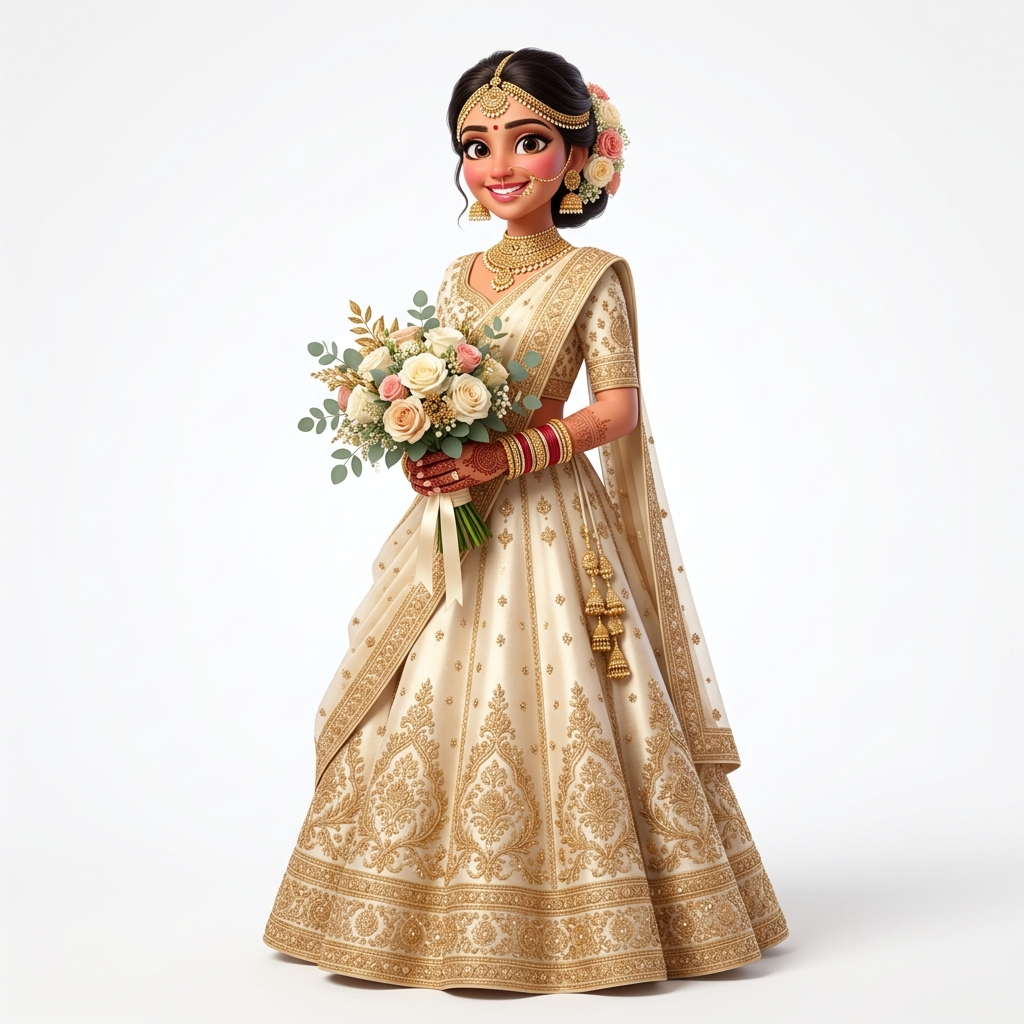
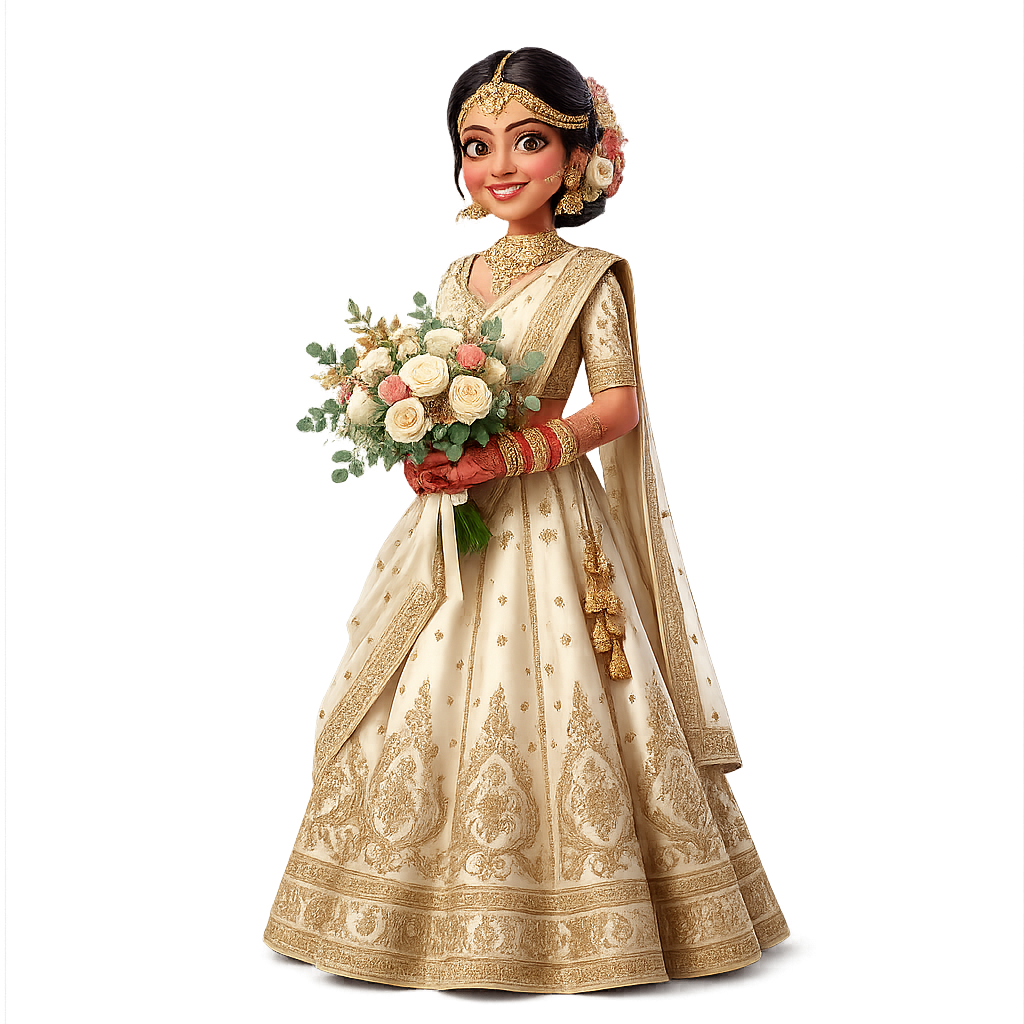
feat: implement PublicInvitationClient component with dynamic luxury event themes and integrated background audio support

Changed region(s): [[0.25, 0.0312, 1.0, 1.0]]

diff --git a/frontend/src/components/PublicInvitationClient.tsx b/frontend/src/components/PublicInvitationClient.tsx
@@ -515,7 +515,7 @@ export default function PublicInvitationClient({ invite }: PublicInvitationClien
       return;
     }
     
-    const isWishMode = userData.mode === 'wish';
+    const isWishMode = true;
     if (!isWishMode && attending === null) {
       setErrorMsg('Please select your attendance.');
       return;
@@ -1071,12 +1071,10 @@ export default function PublicInvitationClient({ invite }: PublicInvitationClien
           <div className="absolute top-0 left-0 right-0 h-1.5" style={{ backgroundColor: primaryColor }} />
           
           <h2 className="text-2xl font-light tracking-wide text-gray-900 mb-2" style={{ fontFamily: fontHeader }}>
-            {userData.mode === 'wish' ? 'Send a Celebration Wish' : 'Are You Attending?'}
+            Send a Celebration Wish
           </h2>
           <p className="text-xs text-gray-400 font-light mb-8">
-            {userData.mode === 'wish' 
-              ? 'Send a warm congratulatory message to your friend to celebrate this occasion.'
-              : 'Please RSVP by submitting the form below to help us plan better.'}
+            Send a warm congratulatory message to celebrate this special occasion.
           </p>
 
           {submitSuccess ? (
@@ -1085,18 +1083,16 @@ export default function PublicInvitationClient({ invite }: PublicInvitationClien
                 <Check className="w-5 h-5" />
               </div>
               <h3 className="font-semibold text-gray-800">
-                {userData.mode === 'wish' ? 'Wish Sent Successfully!' : 'Thank You for Your RSVP!'}
+                Wish Sent Successfully!
               </h3>
               <p className="text-xs text-gray-400 font-light">
-                {userData.mode === 'wish' 
-                  ? 'Your warm wishing message has been published on the wishes board.'
-                  : 'Your response has been logged, and your congratulatory note has been added to our guestbook.'}
+                Your warm wishing message has been published on the wishes board.
               </p>
               <button 
                 onClick={() => setSubmitSuccess(false)}
                 className="mt-4 text-xs font-semibold uppercase tracking-wider text-gold-600 hover:underline"
               >
-                {userData.mode === 'wish' ? 'Send another wish' : 'Submit another response'}
+                Send another wish
               </button>
             </div>
           ) : (
@@ -1121,67 +1117,15 @@ export default function PublicInvitationClient({ invite }: PublicInvitationClien
                 />
               </div>
 
-              {/* Attending Toggle & Guest Count (Only show if NOT wish mode) */}
-              {userData.mode !== 'wish' && (
-                <>
-                  <div className="space-y-2">
-                    <label className="text-[10px] font-semibold uppercase tracking-widest text-gray-400">Will you attend?</label>
-                    <div className="grid grid-cols-2 gap-4">
-                      <button
-                        type="button"
-                        onClick={() => setAttending(true)}
-                        className={`flex items-center justify-center gap-1.5 py-3 rounded-2xl text-xs font-semibold uppercase tracking-wider transition-all duration-300 border ${
-                          attending === true 
-                            ? 'bg-black text-white border-black shadow-sm' 
-                            : 'bg-white border-gray-100 hover:border-gold-500/20 text-gray-500'
-                        }`}
-                      >
-                        <UserCheck className="w-4 h-4" />
-                        Accept
-                      </button>
-                      <button
-                        type="button"
-                        onClick={() => setAttending(false)}
-                        className={`flex items-center justify-center gap-1.5 py-3 rounded-2xl text-xs font-semibold uppercase tracking-wider transition-all duration-300 border ${
-                          attending === false 
-                            ? 'bg-black text-white border-black shadow-sm' 
-                            : 'bg-white border-gray-100 hover:border-gold-500/20 text-gray-500'
-                        }`}
-                      >
-                        <AlertCircle className="w-4 h-4" />
-                        Decline
-                      </button>
-                    </div>
-                  </div>
-
-                  {attending === true && (
-                    <div className="space-y-1.5 animate-fade-in">
-                      <label className="text-[10px] font-semibold uppercase tracking-widest text-gray-400">Number of Guests</label>
-                      <div className="flex items-center gap-3">
-                        <input 
-                          type="number" 
-                          min="1"
-                          max="10"
-                          value={guests}
-                          onChange={(e) => setGuests(Number(e.target.value) || 1)}
-                          className="w-24 border border-gray-100 rounded-2xl px-4 py-3 text-sm focus:outline-none focus:border-[#C8A96B] text-center"
-                        />
-                        <span className="text-xs text-gray-400 font-light">person(s) including yourself</span>
-                      </div>
-                    </div>
-                  )}
-                </>
-              )}
-
               {/* Congratulations Message */}
               <div className="space-y-1.5">
                 <label className="text-[10px] font-semibold uppercase tracking-widest text-gray-400">
-                  {userData.mode === 'wish' ? 'Your Wish Message' : 'Leave a Congratulatory Message (Optional)'}
+                  Your Wish Message
                 </label>
                 <textarea 
                   value={message}
                   onChange={(e) => setMessage(e.target.value)}
-                  placeholder={userData.mode === 'wish' ? 'Write your sweet congratulatory birthday/wedding wish here...' : 'Share a sweet message or greeting...'}
+                  placeholder="Write your sweet congratulatory wish here..."
                   rows={3}
                   className="w-full border border-gray-100 rounded-2xl px-4 py-3 text-sm focus:outline-none focus:border-[#C8A96B] transition-colors resize-none"
                 />
@@ -1193,7 +1137,7 @@ export default function PublicInvitationClient({ invite }: PublicInvitationClien
                 disabled={submitting}
                 className="w-full bg-black hover:bg-[#C8A96B] text-white rounded-full py-3.5 text-xs font-semibold uppercase tracking-widest transition-all duration-300 flex items-center justify-center gap-2 shadow-sm disabled:opacity-50"
               >
-                {submitting ? 'Submitting...' : userData.mode === 'wish' ? 'Send Wish Greeting' : 'Send RSVP'}
+                {submitting ? 'Submitting...' : 'Send Wish Greeting'}
               </button>
             </form>
           )}
@@ -1227,31 +1171,9 @@ export default function PublicInvitationClient({ invite }: PublicInvitationClien
                   <div className="flex justify-between items-start mb-2.5">
                     <div className="flex items-center gap-2">
                       <span className="font-semibold text-sm text-gray-800">{item.name}</span>
-                      {userData.mode !== 'wish' ? (
-                        <span 
-                          className={`inline-flex items-center gap-1 rounded-full px-2 py-0.5 text-[9px] font-semibold uppercase tracking-wider border ${
-                            item.attending 
-                              ? 'bg-green-50/50 border-green-100 text-green-600' 
-                              : 'bg-red-50/50 border-red-100 text-red-500'
-                          }`}
-                        >
-                          {item.attending ? (
-                            <>
-                              <UserCheck className="w-2.5 h-2.5" />
-                              Attending ({item.guests})
-                            </>
-                          ) : (
-                            <>
-                              <AlertCircle className="w-2.5 h-2.5" />
-                              Declined
-                            </>
-                          )}
-                        </span>
-                      ) : (
-                        <span className="inline-flex items-center gap-1 rounded-full px-2 py-0.5 text-[9px] font-semibold uppercase tracking-wider border bg-amber-50/50 border-[#C8A96B]/20 text-[#C8A96B]">
-                          Wished ✨
-                        </span>
-                      )}
+                      <span className="inline-flex items-center gap-1 rounded-full px-2 py-0.5 text-[9px] font-semibold uppercase tracking-wider border bg-amber-50/50 border-[#C8A96B]/20 text-[#C8A96B]">
+                        Wished ✨
+                      </span>
                     </div>
                     <span className="text-[10px] text-gray-300 font-light">
                       {new Date(item.createdAt).toLocaleDateString('en-US', { month: 'short', day: 'numeric' })}